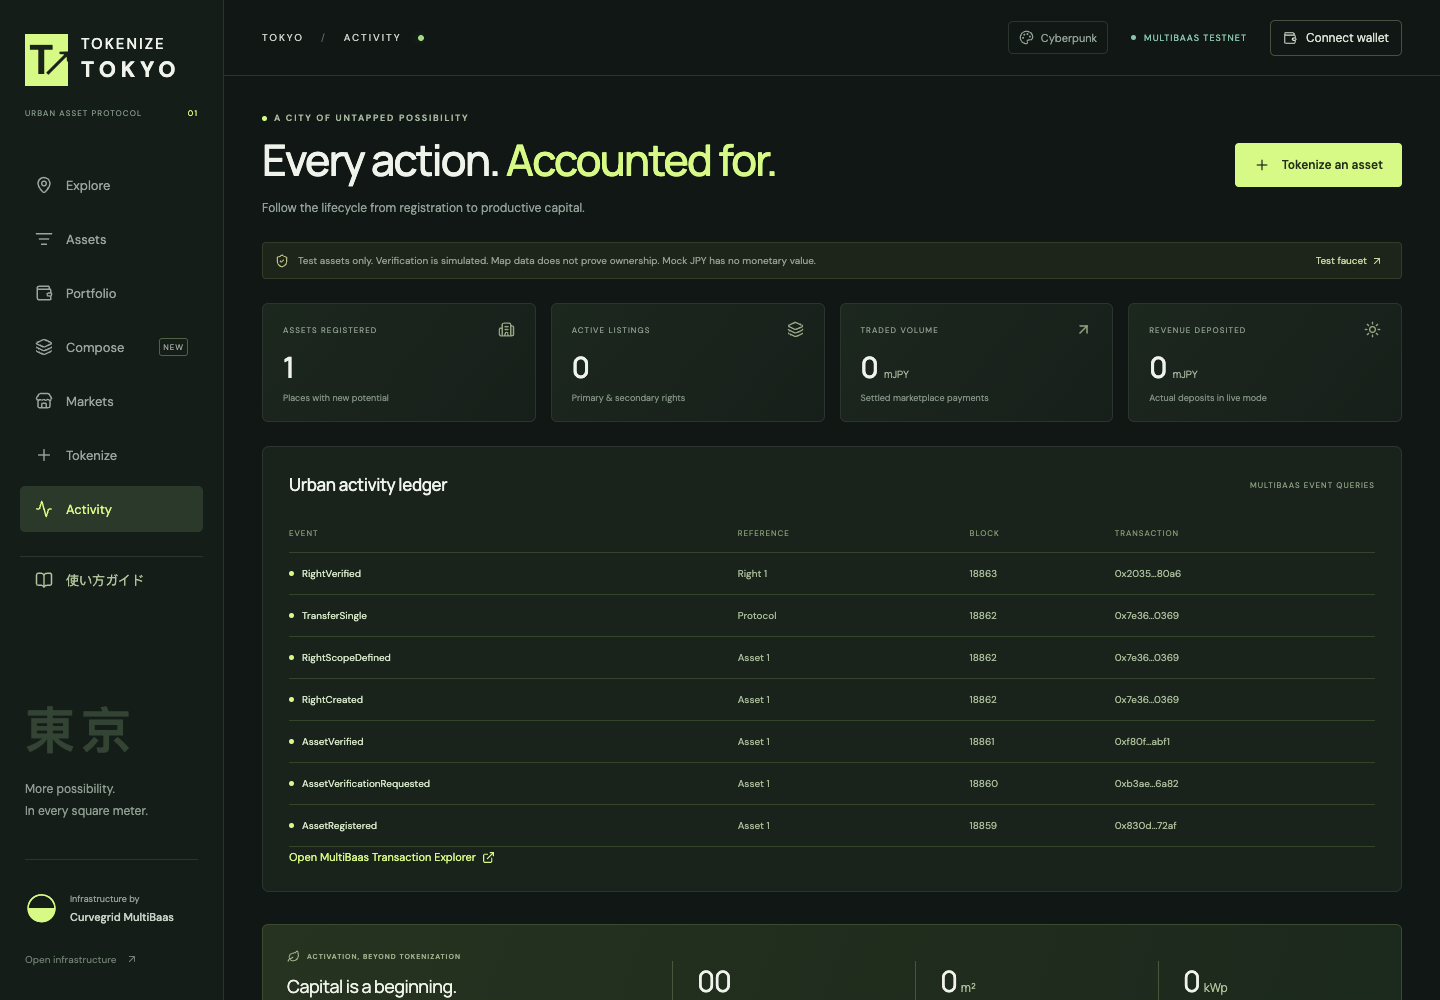
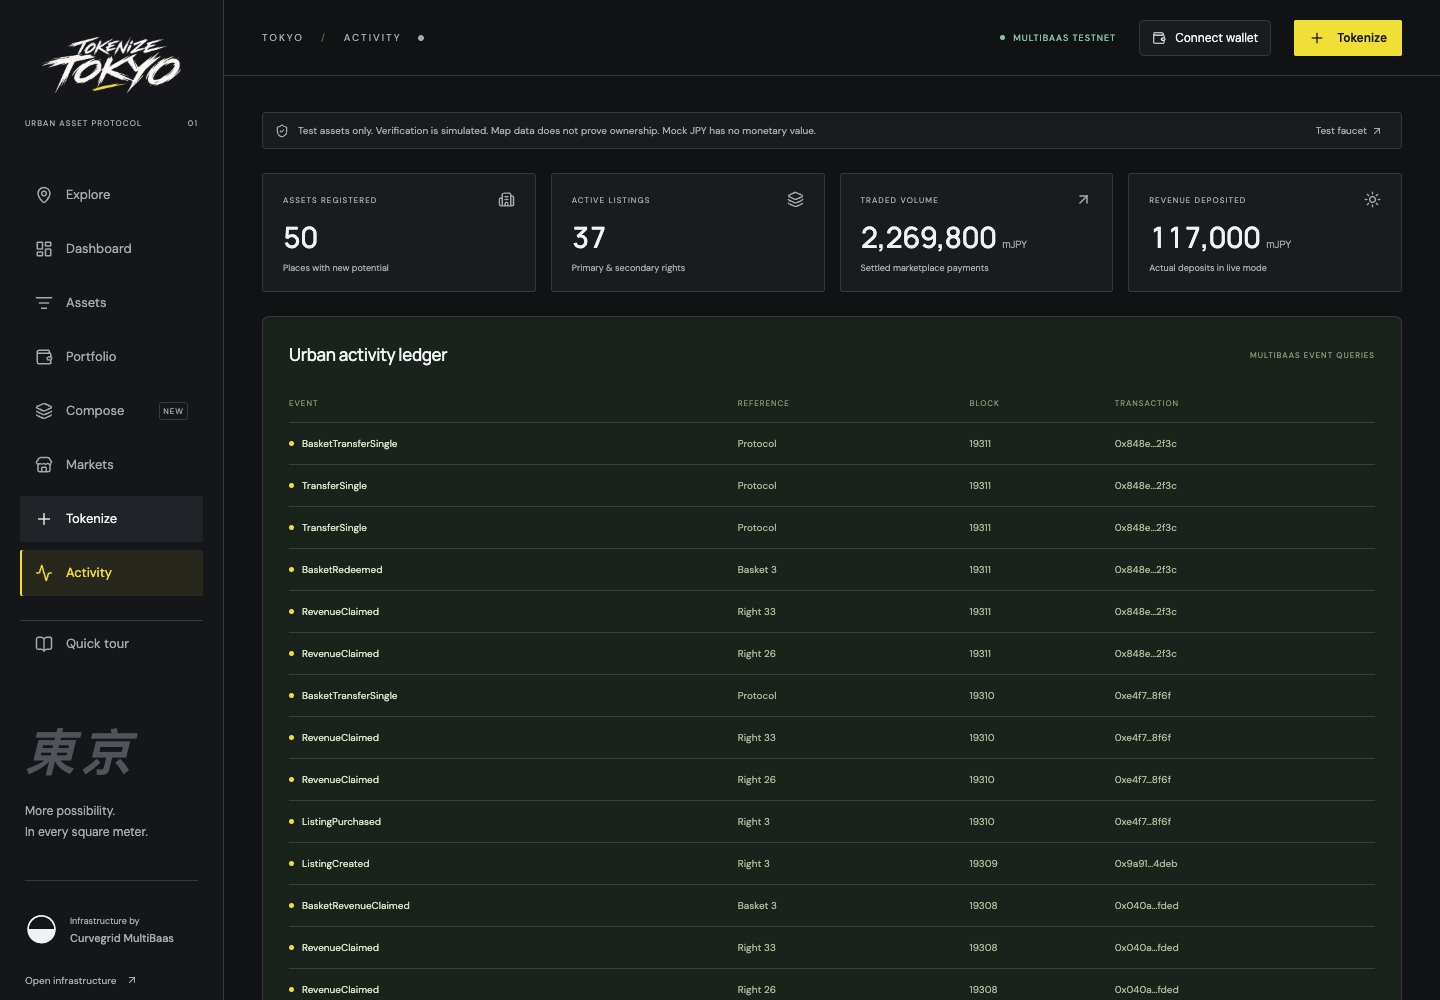
ライブモードのスクリーンショットを現行 UI で撮り直し、README のキャプションを修正

diff --git a/README.md b/README.md
@@ -146,11 +146,11 @@ This sandbox has its own **mock credits** and localStorage. It does not use Mock
 
 ## Screenshots
 
-**`multibaas` mode, live on Curvegrid Testnet.** Explore stats and the analytics panel rendered from MultiBaas Event Queries after the scripted scenario (50 assets, 2,269,800 mJPY volume, 117,000 mJPY deposited):
+**`multibaas` mode, live on Curvegrid Testnet.** The current Explore map in `multibaas` mode after the scripted scenario: 150 dormant demo sites, 50 tokenized assets and 18 activated ones on the live counter, all read through MultiBaas Event Queries:
 
 ![Explore in multibaas mode with live Event Query data](docs/screenshots/multibaas-explore-live.png)
 
-The Activity ledger from MultiBaas Event Queries. This capture was taken before the scripted scenario, so it shows the first seeded asset and its lifecycle events:
+The Activity ledger and stats from MultiBaas Event Queries after the scripted scenario (50 assets, 37 active listings, 2,269,800 mJPY volume, 117,000 mJPY deposited; latest indexed events at the top):
 
 ![Activity ledger in multibaas mode](docs/screenshots/multibaas-activity.png)
 
